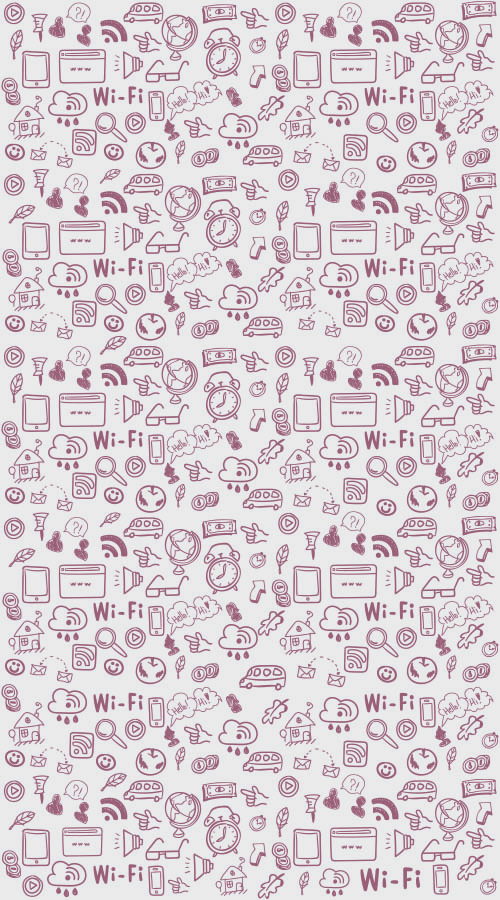
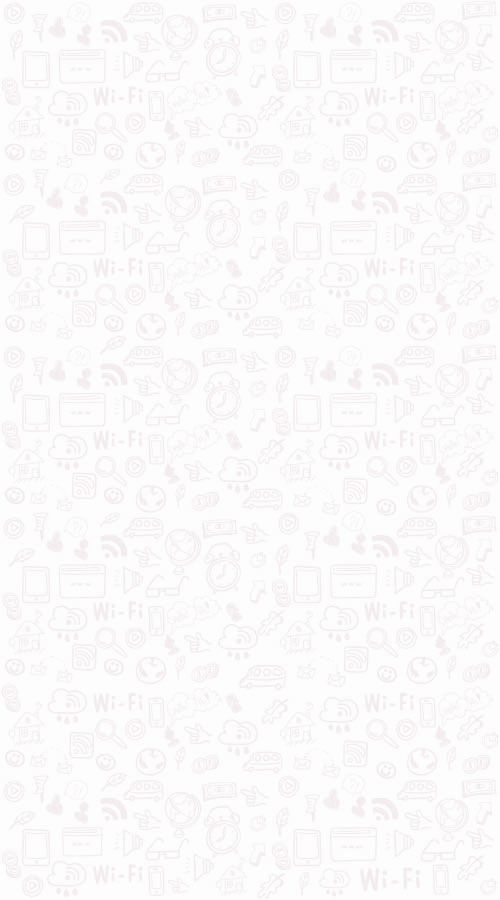
aclarando el fondo y eliminando el estilo de las redes sociales

diff --git a/www/templates/acerca.html b/www/templates/acerca.html
@@ -5,9 +5,11 @@
                 <div class="box-acerca-img">    
                     <img class="acerca-img" src="img/tulocalidad.png">
                 </div>
-                <diV class="box-acerca-text-2">
+                <!---<diV class="box-acerca-text-2">
+                    <h1>Desarrollado</h1>
+                    <p>por</p>
                     <h1>Key Systems</h1>
-                </diV>
+                </diV>-->
             </div>
 
             <div class="row redes-sociales">
@@ -23,7 +25,7 @@
                 </div>
                 <div class="col">
                     <a href="#" browse-to="http://keysystems.com.ve/">
-                        <img src="img/redes/face.jpg">
+                        <img src="img/redes/key.png">
                     </a>
                 </div>
                 <div class="col">

diff --git a/www/css/style.css b/www/css/style.css
@@ -90,9 +90,9 @@
 	padding: 0px;
 	margin-right: 0px;
 }
-.disable-user-behavior{
+/*.disable-user-behavior{
 	background-color: #721520;
-}
+}*/
 .title{
 	color: #fff;
 }
@@ -127,18 +127,14 @@
 }
 .box-acerca-text-2 h1{
 	text-align: center;
-	margin-top: 20px;
-	color:#343434;
-
 	
-	font: normal 3em monospace;
+	color:#343434;
+	font: bold 18px Tahoma;
 	text-shadow: 2px 2px white,
 				 -2px -2px white,
 				 2px -2px white,
 				 -2px 2px white;
   
- 
-
 }
 .acerca-img {
   	display: block;
@@ -149,7 +145,8 @@
  	background-image: url(../img/fondo_acerca.jpg);
 }
 .redes-sociales{
-	margin-top: 120px;
+	margin-top: 160px;
 	margin-left: 15px;
 	text-decoration:none;
+	background-color: transparent;
 }
